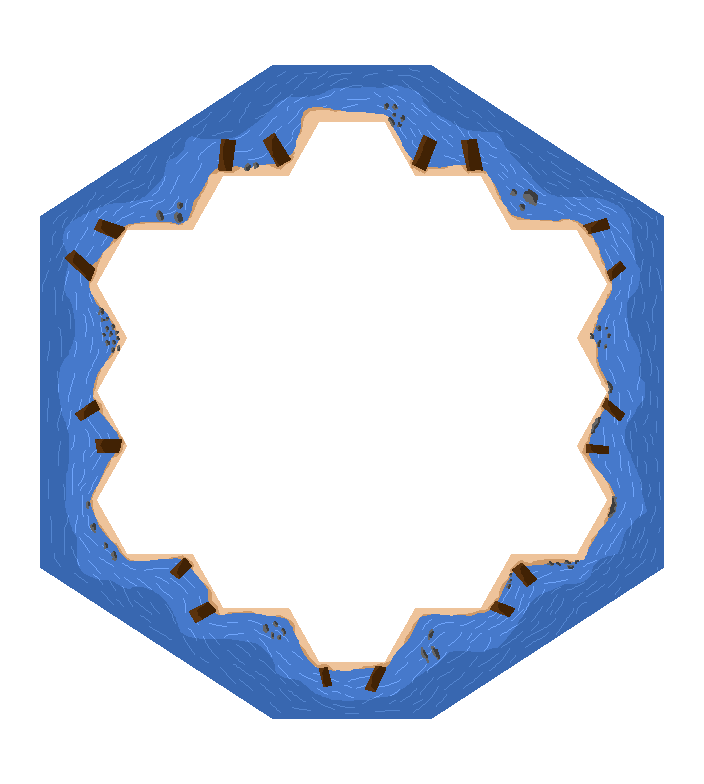
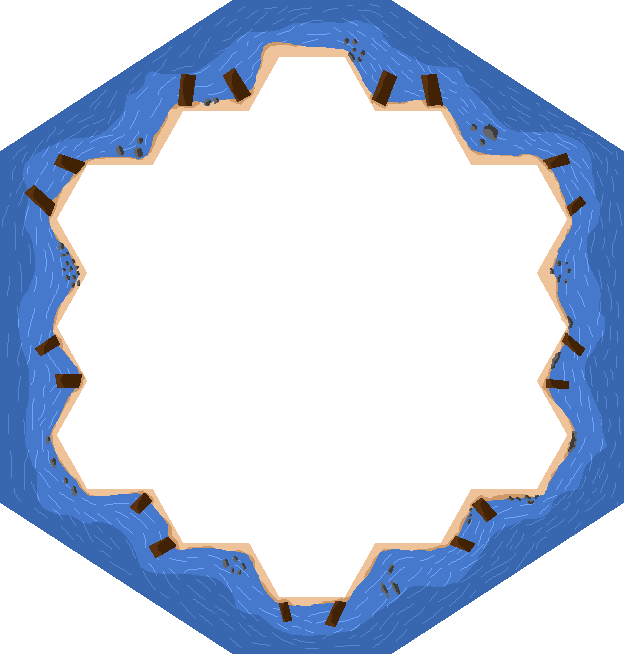
Can now draw board except for roads

diff --git a/src/main/java/catan/gui/BoardPanel.java b/src/main/java/catan/gui/BoardPanel.java
@@ -1,0 +1,252 @@
+package catan.gui;
+
+import catan.Coordinate;
+import catan.Game;
+import catan.data.ResourceType;
+import catan.data.Road;
+import catan.data.Settlement;
+import catan.data.Tile;
+
+import java.awt.Dimension;
+import java.awt.Graphics;
+import java.awt.image.BufferedImage;
+import java.io.IOException;
+import java.io.InputStream;
+import java.util.HashMap;
+import java.util.List;
+import java.util.Map;
+import javax.imageio.ImageIO;
+import javax.swing.JPanel;
+
+public class BoardPanel extends JPanel {
+    public static final int DEFAULT_WIDTH = 624;
+    public static final int DEFAULT_HEIGHT = 654;
+    private static final int X_OFFSET = 64;
+    private static final int X_SECONDARY_OFFSET = 32;
+    private static final int Y_OFFSET = 54;
+
+    private Tile[] tiles;
+    private List<Road> roads;
+    private List<Settlement> settlements;
+    private Game game;
+
+    private Map<ResourceType, BufferedImage> tileImages;
+    private Map<Integer, BufferedImage> puckImages;
+    private Map<Integer, BufferedImage> settlementImages;
+    private Map<Integer, BufferedImage> cityImages;
+    private BufferedImage outlineImage;
+    private BufferedImage thiefImage;
+
+    public BoardPanel(Game game) {
+        this.setSize(DEFAULT_WIDTH, DEFAULT_HEIGHT);
+        this.setMaximumSize(getMaximumSize());
+
+        this.tileImages = new HashMap<>();
+        this.puckImages = new HashMap<>();
+        this.settlementImages = new HashMap<>();
+        this.cityImages = new HashMap<>();
+
+        loadTileImages();
+        loadPuckImages();
+        loadPieceImages();
+
+        this.game = game;
+        this.tiles = this.game.getBoard().getTiles();
+        this.roads = this.game.getBoard().getRoads();
+        this.settlements = this.game.getBoard().getSettlements();
+
+
+    }
+
+    private void loadPuckImages() {
+        ClassLoader classLoader = getClass().getClassLoader();
+
+        try {
+            InputStream stream = classLoader.getResourceAsStream("image/puck_2.png");
+            puckImages.put(2, ImageIO.read(stream));
+            stream.close();
+
+            stream = classLoader.getResourceAsStream("image/puck_3.png");
+            puckImages.put(3, ImageIO.read(stream));
+            stream.close();
+
+            stream = classLoader.getResourceAsStream("image/puck_4.png");
+            puckImages.put(4, ImageIO.read(stream));
+            stream.close();
+
+            stream = classLoader.getResourceAsStream("image/puck_5.png");
+            puckImages.put(5, ImageIO.read(stream));
+            stream.close();
+
+            stream = classLoader.getResourceAsStream("image/puck_6.png");
+            puckImages.put(6, ImageIO.read(stream));
+            stream.close();
+
+            stream = classLoader.getResourceAsStream("image/puck_8.png");
+            puckImages.put(8, ImageIO.read(stream));
+            stream.close();
+
+            stream = classLoader.getResourceAsStream("image/puck_9.png");
+            puckImages.put(9, ImageIO.read(stream));
+            stream.close();
+
+            stream = classLoader.getResourceAsStream("image/puck_10.png");
+            puckImages.put(10, ImageIO.read(stream));
+            stream.close();
+
+            stream = classLoader.getResourceAsStream("image/puck_11.png");
+            puckImages.put(11, ImageIO.read(stream));
+            stream.close();
+
+            stream = classLoader.getResourceAsStream("image/puck_12.png");
+            puckImages.put(12, ImageIO.read(stream));
+            stream.close();
+
+        } catch (IOException e) {
+            System.err.println("failed to load puck asset");
+        }
+    }
+
+    private void loadPieceImages() {
+        ClassLoader classLoader = getClass().getClassLoader();
+
+        try {
+            InputStream stream = classLoader.getResourceAsStream("image/settlement_p1.png");
+            settlementImages.put(1, ImageIO.read(stream));
+            stream.close();
+
+            stream = classLoader.getResourceAsStream("image/settlement_p2.png");
+            settlementImages.put(2, ImageIO.read(stream));
+            stream.close();
+
+            stream = classLoader.getResourceAsStream("image/settlement_p3.png");
+            settlementImages.put(3, ImageIO.read(stream));
+            stream.close();
+
+            stream = classLoader.getResourceAsStream("image/settlement_p4.png");
+            settlementImages.put(4, ImageIO.read(stream));
+            stream.close();
+
+            stream = classLoader.getResourceAsStream("image/city_p1.png");
+            cityImages.put(1, ImageIO.read(stream));
+            stream.close();
+
+            stream = classLoader.getResourceAsStream("image/city_p2.png");
+            cityImages.put(2, ImageIO.read(stream));
+            stream.close();
+
+            stream = classLoader.getResourceAsStream("image/city_p3.png");
+            cityImages.put(3, ImageIO.read(stream));
+            stream.close();
+
+            stream = classLoader.getResourceAsStream("image/city_p4.png");
+            cityImages.put(4, ImageIO.read(stream));
+            stream.close();
+
+            stream = classLoader.getResourceAsStream("image/thief.png");
+            thiefImage = ImageIO.read(stream);
+            stream.close();
+
+            stream = classLoader.getResourceAsStream("image/outline.png");
+            outlineImage = ImageIO.read(stream);
+            stream.close();
+        } catch (IOException e) {
+            System.err.println("failed to load piece asset");
+        }
+    }
+
+    private void loadTileImages() {
+        ClassLoader classLoader = getClass().getClassLoader();
+
+        try {
+            InputStream stream = classLoader.getResourceAsStream("image/tile_forest.png");
+            tileImages.put(ResourceType.WOOD, ImageIO.read(stream));
+            stream.close();
+
+            stream = classLoader.getResourceAsStream("image/tile_farm.png");
+            tileImages.put(ResourceType.WHEAT, ImageIO.read(stream));
+            stream.close();
+
+            stream = classLoader.getResourceAsStream("image/tile_field.png");
+            tileImages.put(ResourceType.SHEEP, ImageIO.read(stream));
+            stream.close();
+
+            stream = classLoader.getResourceAsStream("image/tile_quarry.png");
+            tileImages.put(ResourceType.BRICK, ImageIO.read(stream));
+            stream.close();
+
+            stream = classLoader.getResourceAsStream("image/tile_mountain.png");
+            tileImages.put(ResourceType.ORE, ImageIO.read(stream));
+            stream.close();
+
+            stream = classLoader.getResourceAsStream("image/tile_desert.png");
+            tileImages.put(ResourceType.DESERT, ImageIO.read(stream));
+            stream.close();
+        } catch (IOException e) {
+            System.err.println("failed to load tile asset");
+        }
+    }
+
+    @Override
+    protected void paintComponent(Graphics g) {
+        super.paintComponent(g);
+
+        g.drawImage(outlineImage, 0, 0, null);
+
+        for (Tile t : this.tiles) {
+            Coordinate c = t.getPosition();
+
+            int x = DEFAULT_WIDTH / 2
+                    + X_OFFSET * c.getY()
+                    + X_SECONDARY_OFFSET * (c.getX() + c.getZ());
+            int y = DEFAULT_HEIGHT / 2
+                    - c.getX() * Y_OFFSET
+                    + c.getZ() * Y_OFFSET;
+
+            int tileX = x - 64;
+            int tileY = y - 64;
+
+            int pieceX = x - 16;
+            int pieceY = y - 16;
+
+
+            g.drawImage(this.tileImages.get(t.getResourceType()), tileX, tileY, null);
+
+            if (t.getDieRoll() != 7) {
+                g.drawImage(this.puckImages.get(t.getDieRoll()), pieceX, pieceY, null);
+            }
+
+            if (c.equals(this.game.getBoard().getThiefPosition())) {
+                g.drawImage(this.thiefImage, pieceX, pieceY, null);
+            }
+        }
+
+        for (Settlement s: this.settlements) {
+            Coordinate c = s.getLocation();
+            int pNumber = s.getOwner();
+
+            int x = DEFAULT_WIDTH / 2
+                    + X_OFFSET * c.getY()
+                    + X_SECONDARY_OFFSET * (c.getX() + c.getZ()) - 16;
+            int y = DEFAULT_HEIGHT / 2
+                    - c.getX() * Y_OFFSET
+                    + c.getZ() * Y_OFFSET - 16;
+
+            if (s.isCity()) {
+                g.drawImage(this.cityImages.get(pNumber), x, y, null);
+            } else {
+                g.drawImage(this.settlementImages.get(pNumber), x, y, null);
+            }
+        }
+
+    }
+
+    @Override
+    public Dimension getPreferredSize() {
+        if (isPreferredSizeSet()) {
+            return super.getPreferredSize();
+        }
+
+        return new Dimension(DEFAULT_WIDTH, DEFAULT_HEIGHT);
+    }
+}

diff --git a/src/main/java/catan/gui/CatanWindow.java b/src/main/java/catan/gui/CatanWindow.java
@@ -1,24 +1,37 @@
 package catan.gui;
 
-import javax.swing.JFrame;
+import javax.imageio.ImageIO;
+import javax.swing.*;
 
+import catan.Coordinate;
 import catan.Game;
+
+import java.awt.*;
+import java.awt.image.BufferedImage;
+import java.io.BufferedInputStream;
+import java.io.FileInputStream;
+import java.io.FileNotFoundException;
+import java.io.IOException;
+import java.io.InputStream;
+import java.security.cert.CertPath;
 
 public class CatanWindow {
 	private Game game;
 	public static final int DEFAULT_WIDTH = 800;
 	public static final int DEFAULT_HEIGHT = 600;
 
+
 	// Swing Components below here
 	private JFrame frame;
+	private BoardPanel boardPanel;
 
-	public CatanWindow() {
+	public CatanWindow() throws FileNotFoundException {
 		frame = new JFrame("Catan");
 		frame.setDefaultCloseOperation(JFrame.EXIT_ON_CLOSE);
 		frame.setSize(DEFAULT_WIDTH, DEFAULT_HEIGHT);
 
 		game = new Game();
-
+		boardPanel = new BoardPanel(game);
 	}
 
 	/**
@@ -26,6 +39,8 @@ public class CatanWindow {
 	 */
 	public void setupLayout() {
 		// Add Layout Code As Necessary
+		frame.add(boardPanel);
+		frame.pack();
 		frame.setVisible(true);
 	}
 

diff --git a/src/main/java/catan/Main.java b/src/main/java/catan/Main.java
@@ -2,6 +2,8 @@ package catan;
 
 import catan.gui.CatanWindow;
 
+import java.io.FileNotFoundException;
+
 /**
  * The "boostrap" class for the application. This class is responsible for
  * spawning the main window and initializing the game.
@@ -12,7 +14,7 @@ public class Main {
 		// Do nothing
 	} // Prevent instantiation
 
-	public static void main(String[] args) {
+	public static void main(String[] args) throws FileNotFoundException {
 		CatanWindow window = new CatanWindow();
 		window.setupLayout();
 	}

diff --git a/src/main/java/catan/Game.java b/src/main/java/catan/Game.java
@@ -264,4 +264,7 @@ public class Game {
 		this.players.add(p);
 	}
 
+    public Board getBoard() {
+		return this.board;
+    }
 }
